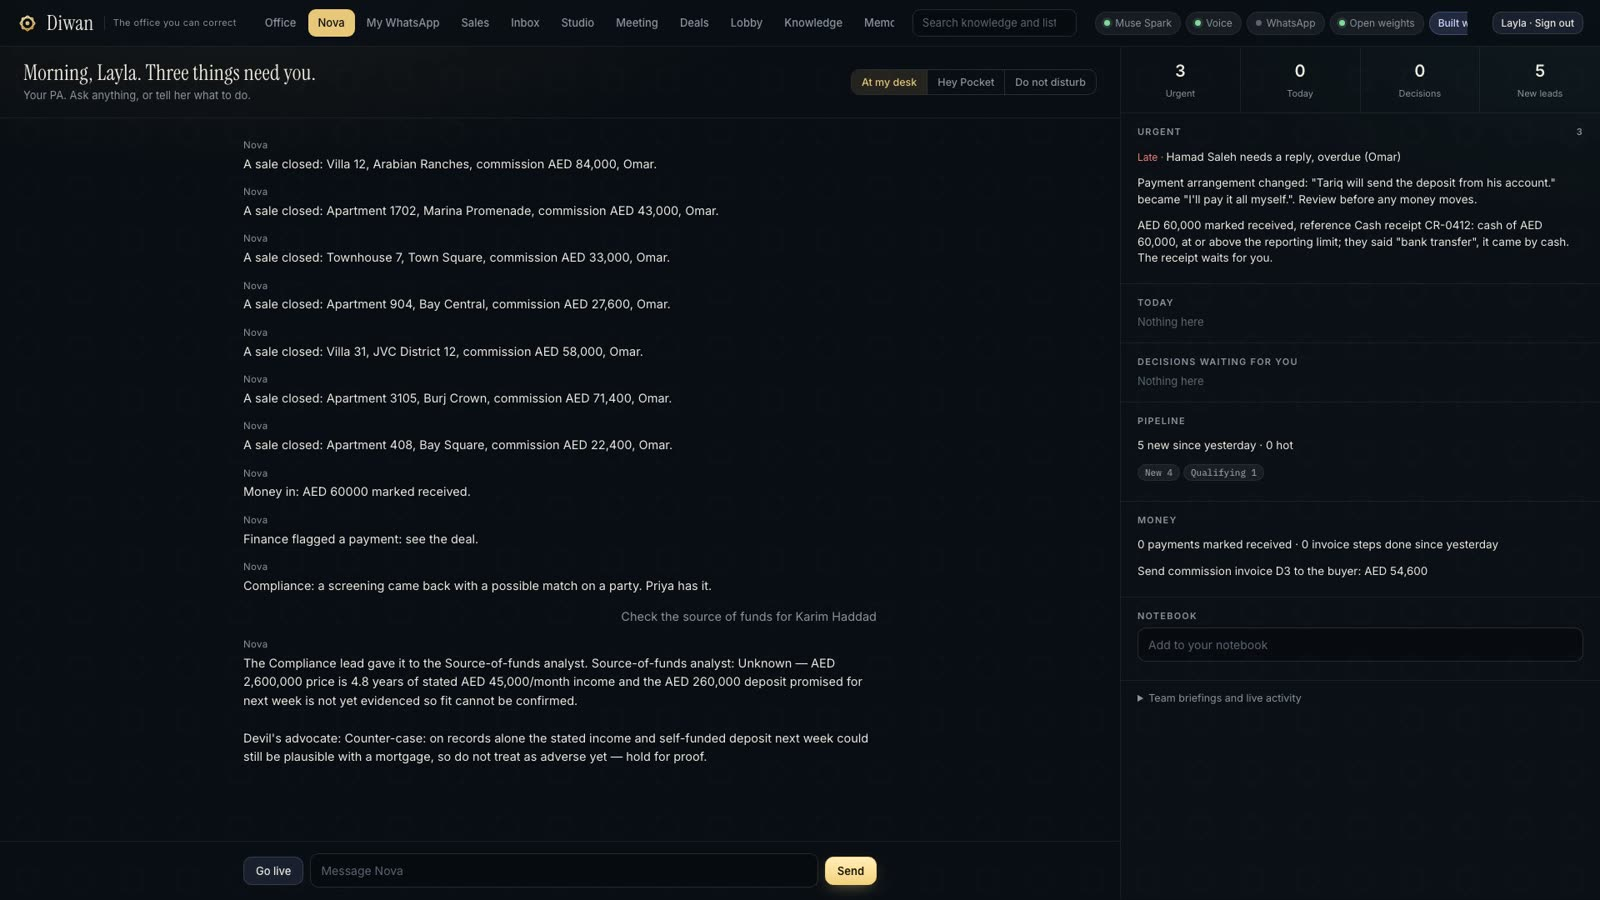
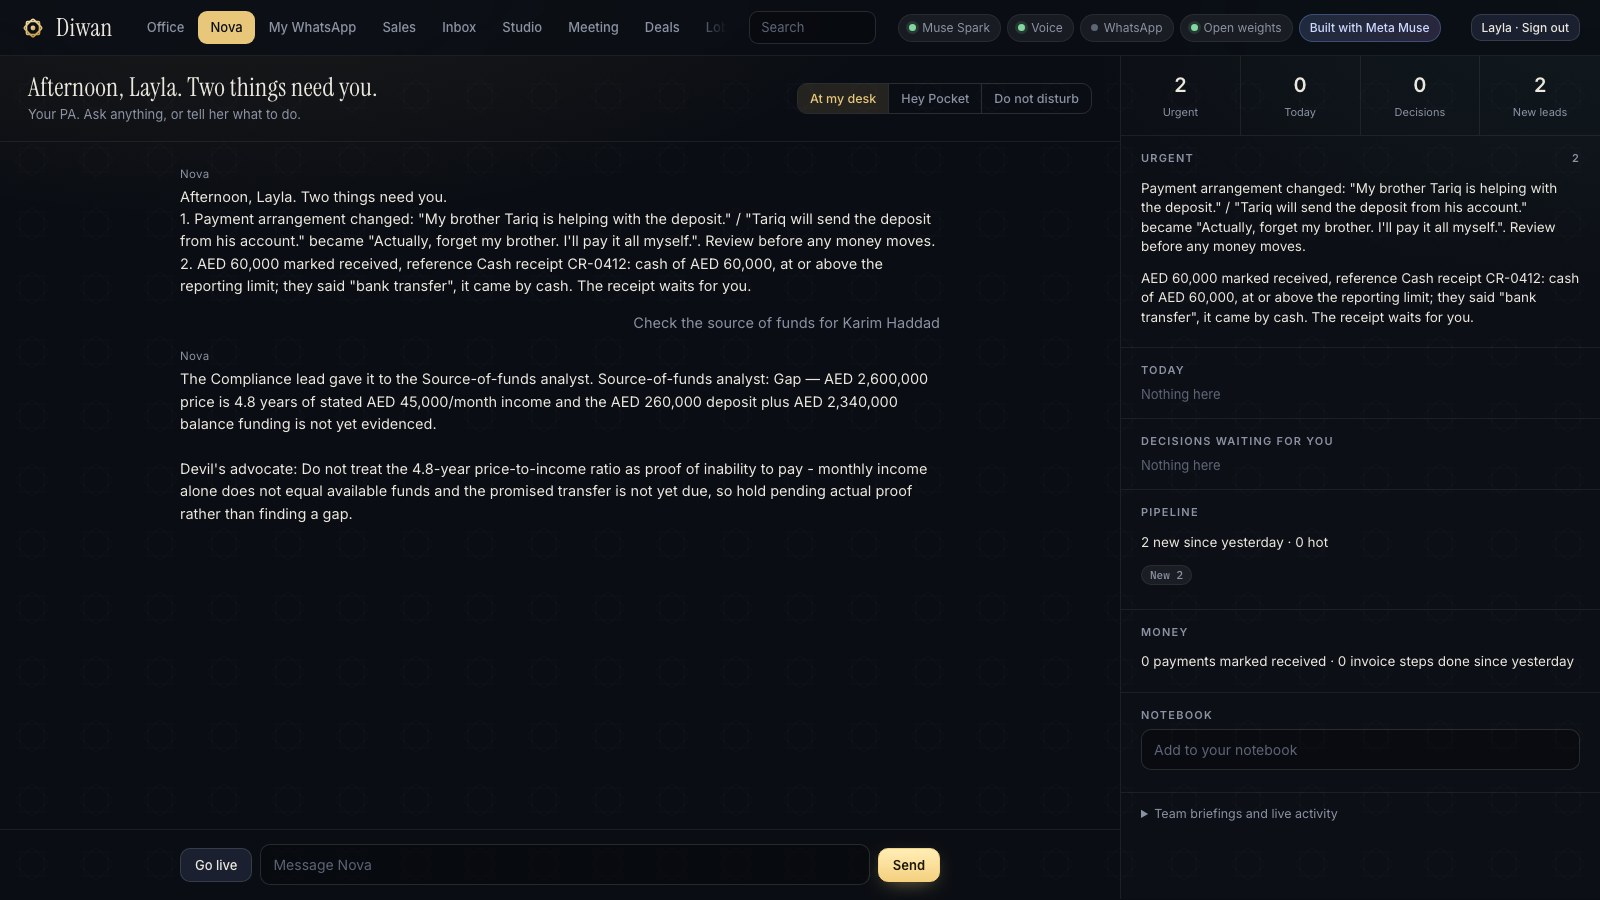
Public demo locked against key and login changes; feed photos open; Arabic prices draw; off-plan 3D on the roadmap
- With DIWAN_TEAM_PASSWORD set (the public demo), changing a password or a login, saving keys or testing the AiSensy
  line is refused with 403 "Locked in the public demo", even for the owner. Reset still works and Settings still shows
  which keys are set. One test per refused route.
- The demo feed lists photos as the app's own addresses (/web/img/demo/...): they now open from the app's folder, so a
  feed listing gets its picture posts and its free video from its own photos.
- Arabic on pictures: a comma inside a number becomes the Arabic thousands separator ("١٬٣٥٠٬٠٠٠"). The Latin comma
  was drawn as a box, and a space would let right-to-left text turn the groups around.
- README roadmap: off-plan units in 3D from the developer's floor plan with SAM 3.1, sizes always from the plan.
- docs/img/money-story.jpg retaken: the correction, the cash flag and the source-of-funds analyst against the devil's
  advocate on Muse Spark Open, with no real building names in view.

diff --git a/diwan/agents/eventpost.py b/diwan/agents/eventpost.py
@@ -37,7 +37,7 @@ READ_SCHEMA = {"name": "photos", "strict": True, "schema": {"type": "object", "a
 
 def _load(path: str) -> Image.Image | None:
     try:
-        return Image.open(path).convert("RGB")
+        return Image.open(freevideo.on_disk(path)).convert("RGB")
     except (OSError, ValueError):
         return None
 
@@ -395,6 +395,14 @@ def _wrap(d: ImageDraw.ImageDraw, text: str, font, width: int) -> list[str]:
 ARABIC_DIGITS = str.maketrans("0123456789", "٠١٢٣٤٥٦٧٨٩")  # the Arabic font has no Western digits: they were drawn as boxes
 
 
+def arabic_text(text: str) -> str:
+    """The Arabic words as the Arabic font can draw them: only its own letters and marks, Arabic digits, and the Arabic
+    thousands separator inside a number ("١٬٣٥٠٬٠٠٠"). The font has no Latin comma (it was a box), and a space would let
+    right-to-left text turn the groups around."""
+    text = re.sub(r"(?<=[0-9\u0660-\u0669]),(?=[0-9\u0660-\u0669])", "\u066C", text or "")
+    return re.sub(r"[^\u0600-\u06FF\u0750-\u077F\uFB50-\uFDFF\uFE70-\uFEFF0-9\s.,:!?()-]", "", text).translate(ARABIC_DIGITS).strip()
+
+
 def _wrap_rtl(d: ImageDraw.ImageDraw, text: str, font, width: int) -> list[str]:
     """Arabic words into lines that fit, measured right to left (shaped words are wider than their letters)."""
     out, cur = [], ""
@@ -519,7 +527,7 @@ def _draw(img: Image.Image, text: str, name: str, centre: bool, *, logo: str | N
     while len(lines) > (4 if greeting else 5) and font.size > 36:
         font = _font(font.size - 6)
         lines = _wrap(d, text, font, W - 2 * SAFE - 40)
-    arabic = re.sub(r"[^\u0600-\u06FF\u0750-\u077F\uFB50-\uFDFF\uFE70-\uFEFF0-9\s.,:!?()-]", "", arabic or "").translate(ARABIC_DIGITS).strip()  # only what the Arabic font draws
+    arabic = arabic_text(arabic)  # only what the Arabic font draws
     afont = _arabic(int(font.size * .8)) if arabic else None
     alines = _wrap_rtl(d, arabic, afont, W - 2 * SAFE - 40) if afont else []
     while afont and len(alines) > 2 and afont.size > 28:

diff --git a/tests/test_demo_lock.py b/tests/test_demo_lock.py
@@ -1,0 +1,32 @@
+"""The public demo (DIWAN_TEAM_PASSWORD set) never lets a visitor change the keys or the logins, not even signed in as
+the owner. Reset still works, and Settings still shows which keys are set."""
+import pytest
+
+from .test_access import signed_in, web  # noqa: F401  the same signed-in test client
+
+
+@pytest.fixture
+def demo(web, monkeypatch):
+    monkeypatch.setenv("DIWAN_TEAM_PASSWORD", "the team's password")
+    signed_in(web, "layla")
+    return web
+
+
+@pytest.mark.parametrize("path,body", [("/api/auth/password", {"person": "omar", "password": "a new password"}),
+                                       ("/api/auth/password", {"person": "omar", "password": ""}),
+                                       ("/api/integrations", {"values": {"ZOOM_CLIENT_SECRET": "x"}}),
+                                       ("/api/integrations/aisensy/test", {})])
+def test_the_owner_cannot_change_keys_or_logins_in_the_public_demo(demo, path, body):
+    r = demo.post(path, json=body)
+    assert r.status_code == 403 and "Locked in the public demo" in r.text
+
+
+def test_reset_and_reading_which_keys_are_set_still_work(demo):
+    assert demo.get("/api/integrations").status_code == 200
+    assert demo.post("/api/demo/reset").status_code == 200
+
+
+def test_without_the_team_password_the_owner_still_can(web, monkeypatch):
+    monkeypatch.delenv("DIWAN_TEAM_PASSWORD", raising=False)
+    signed_in(web, "layla")
+    assert web.post("/api/auth/password", json={"person": "omar", "password": "another good one"}).status_code == 200

diff --git a/tests/test_feed_photos.py b/tests/test_feed_photos.py
@@ -1,0 +1,26 @@
+"""The demo feed lists its photos as the app's own addresses (/web/img/demo/...): they open as files, so a feed listing
+gets its carousel and its free video from its own photos."""
+from diwan.agents import eventpost, freevideo
+
+from .test_eventpost import office  # noqa: F401  the same studio office
+
+
+def test_a_feed_photo_opens_from_the_apps_own_folder():
+    assert freevideo.on_disk("/web/img/demo/marina.jpg").endswith("web/img/demo/marina.jpg")
+    assert eventpost._load("/web/img/demo/marina.jpg") is not None
+    assert freevideo.on_disk("/tmp/x.jpg") == "/tmp/x.jpg" and freevideo.on_disk("https://x/y.jpg") == "https://x/y.jpg"
+
+
+def test_a_feed_listings_own_photos_are_usable_for_pictures_and_the_free_video(office, tmp_path):
+    from diwan import demo
+    demo.catalog(office)
+    pics = eventpost.photos(office, "DR-101", fetch=True)
+    assert len(pics) >= 3 and all(p["usable"] for p in pics), pics
+    assert all(freevideo._local(p, tmp_path, i) for i, p in enumerate(freevideo.photos(office, "DR-101")))
+
+
+def test_a_number_in_arabic_has_no_separator_the_font_cannot_draw():
+    for said in ("ماذا تشتري بـ ١٬٣٥٠٬٠٠٠ درهم؟", "ماذا تشتري بـ 1,350,000 درهم؟"):
+        out = eventpost.arabic_text(said)
+        assert "١٬٣٥٠٬٠٠٠" in out and "," not in out, out  # the Arabic separator: drawn, and the number stays in order
+    assert eventpost.arabic_text("دبي، مارينا") == "دبي، مارينا"  # the Arabic comma between words stays

diff --git a/diwan/access.py b/diwan/access.py
@@ -402,6 +402,15 @@ deal_guard = None  # set by the app: may this person open this deal? (a broker: 
 file_guard = None  # set by the app: may this person open this client's ID, signature or signed form?
 
 
+# A public demo (DIWAN_TEAM_PASSWORD set: every visitor shares the demo logins) never lets anyone change the keys or the
+# logins from the page: a visitor signed in as the owner could otherwise lock others out or replace the keys.
+LOCKED_IN_DEMO = ("/api/auth/password", "/api/integrations")
+
+
+def demo_locked(path: str, method: str) -> bool:
+    return method in ("POST", "PUT", "PATCH", "DELETE") and path.startswith(LOCKED_IN_DEMO) and bool(config.env("DIWAN_TEAM_PASSWORD"))
+
+
 class Gate:
     """In front of everything, so a route, a page or a socket added later is behind it from the start."""
 
@@ -412,6 +421,8 @@ class Gate:
         if scope["type"] not in ("http", "websocket") or not enabled():
             return await self.app(scope, receive, send)
         path, method = scope["path"], scope.get("method", "GET")
+        if demo_locked(path, method):
+            return await self._refuse(scope, receive, send, 403, "Locked in the public demo", None)
         if _public(path, method):
             return await self.app(scope, receive, send)
         headers = {k.decode("latin1").lower(): v for k, v in scope["headers"]}

diff --git a/diwan/agents/freevideo.py b/diwan/agents/freevideo.py
@@ -163,10 +163,18 @@ def ai_frames(office: Office, ref: str, *, by: str) -> dict:
     return {"ok": True, "frames": len(paths), "review": review}
 
 
+WEB = Path(__file__).resolve().parents[2] / "web"
+
+
+def on_disk(src: str) -> str:
+    """A photo the app serves itself ("/web/img/demo/marina.jpg", as the demo feed lists them) as its file here."""
+    return str(WEB / src[len("/web/"):]) if src.startswith("/web/") else src
+
+
 def _local(src: str, folder: Path, i: int) -> Path | None:
     """A photo as a file here: an uploaded path as it is, a web link downloaded once."""
     if not src.startswith("http"):
-        p = Path(src)
+        p = Path(on_disk(src))
         return p if p.exists() else None
     out = folder / f"photo{i}.jpg"
     if not out.exists():

diff --git a/README.md b/README.md
@@ -141,6 +141,9 @@ The Marketing room works from the same records as the rest of the office, so a p
   marketing that starts by itself when a listing goes live.
 - **Meetings with guests:** a third voice in a meeting kept as a guest, whose words never become facts until someone
   says who they are, and a screen that hides internal notes while a client is in the call.
+- **Off-plan in 3D:** upload a developer's floor plan; Meta's SAM 3.1 finds each room and Diwan builds a simple walkable
+  3D unit, shared with overseas buyers during a call through a client-safe Diwan link. Room sizes always come from the
+  developer's plan, never from the model.
 - **Nova joins your call:** the owner's assistant as a participant in Zoom or Meet. She listens, answers when asked, and shares the deal or calendar on screen.
 - **3D meeting room:** a live meeting shown in the office's meeting room, with commitments rising as cards as they're spoken.
 - **Night replay:** the office's overnight work replayed on the 3D floor each morning.
